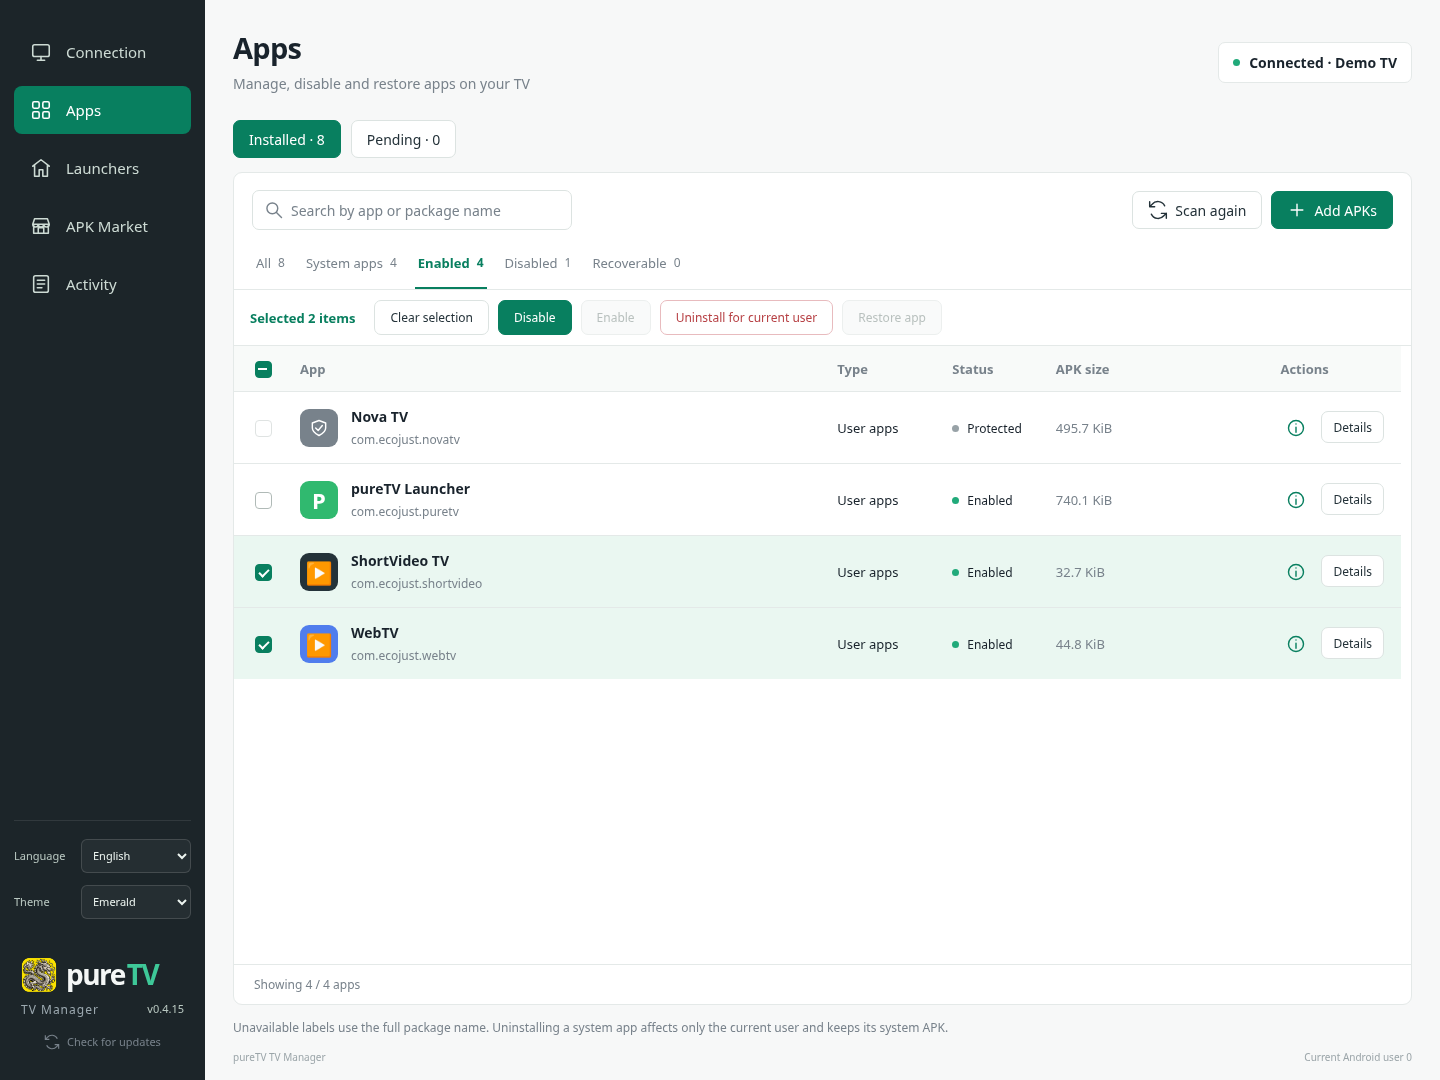
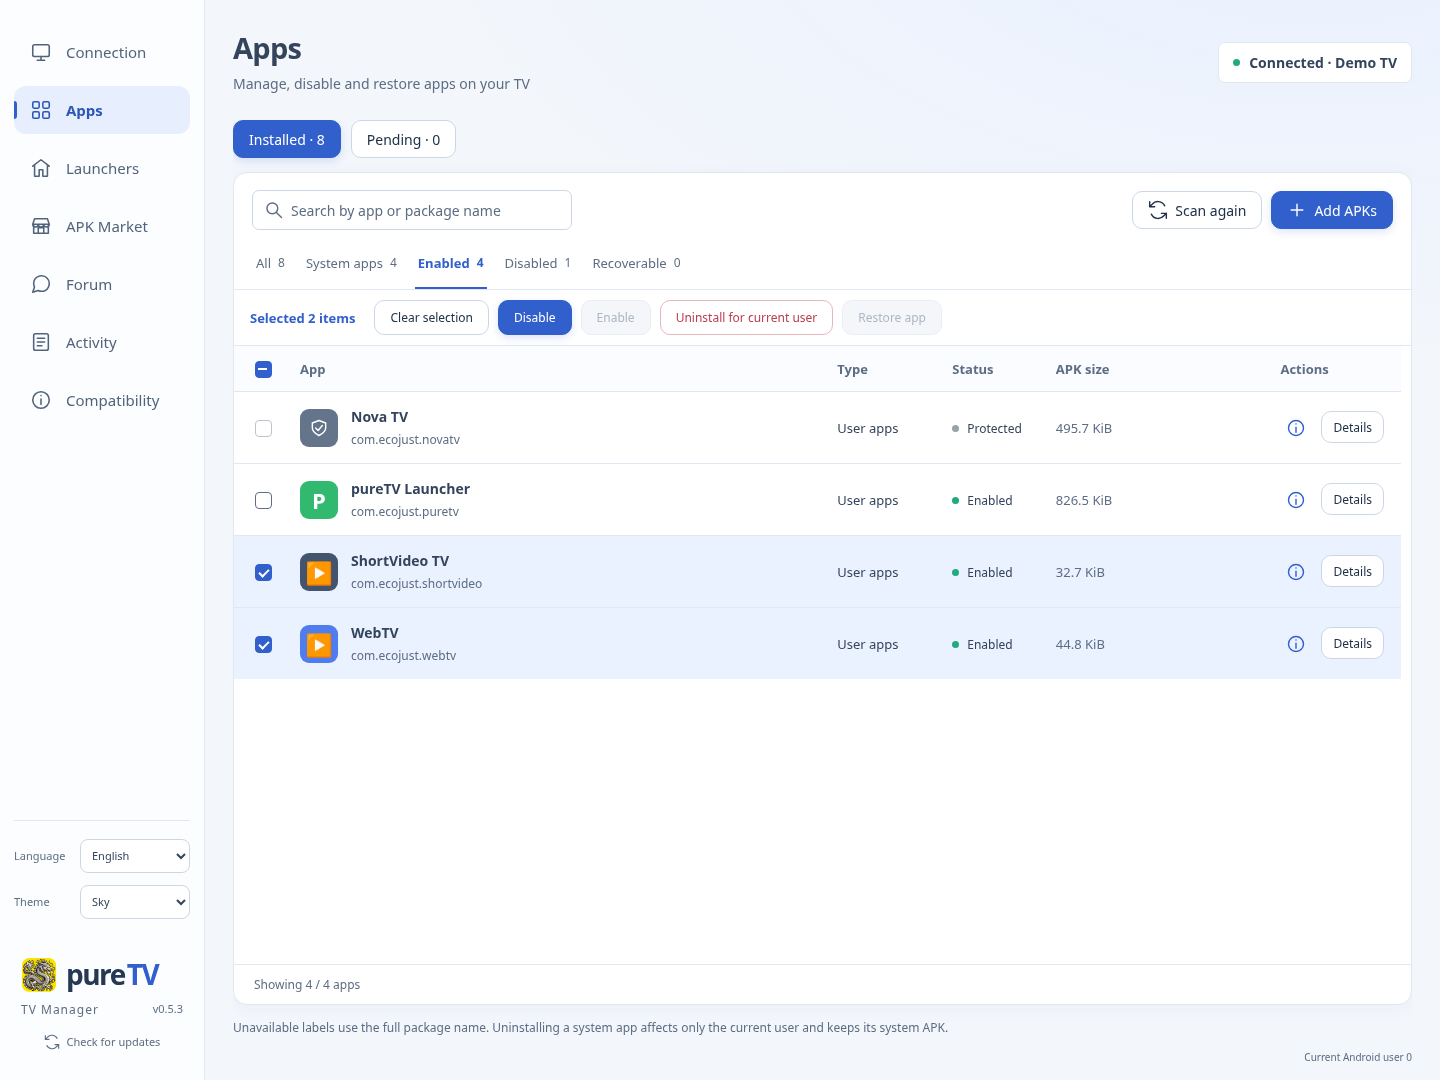
docs: refresh manager README screenshots for bright themes [skip ci]

diff --git a/history/2026-11-06-002.md b/history/2026-11-06-002.md
@@ -1,6 +1,6 @@
 # 2026-11-06 · 明亮主题与移除兼容性列表
 
-- 状态：completed
+- 状态：in_progress
 - 分支：`feat/bright-themes`
 - 起点：`e9cb8daf`（上轮Info列表交付后的主分支）
 - 关联记录：[Info兼容列表](2026-11-06-001.md)、[0.5.3发布](2026-11-05-006.md)
@@ -14,6 +14,10 @@
 ### U2
 
 > info改个名字，叫类似兼容性方案之类的
+
+### U3
+
+> readme中该换的图要更新了
 
 ## 行动记录
 
@@ -45,8 +49,21 @@
 - 推送触发 [Desktop build 42228326316](https://github.com/ecojust/pureTV/actions/runs/42228326316)，记录时为 queued，尚未取得四平台 CI 结论。前述本地构建／UI／视觉检查已通过。
 - 本次完成源码交付，未修改版本、创建发布标签或上传安装包；公开版本仍为 desktop-v0.5.3。
 
+### A5 · README 截图更新
+
+- 用户要求更新 README 中应替换的截图。已定位中文首页仍引用旧版 `manager-0415.png`，英文首页引用的 `manager-en.png` 也需重新捕获。已有英文截图脚本将扩展为中英两套，直接渲染当前生产界面及明确标注的模拟设备数据。
+- 上轮四平台 CI 42228326316 当前仍在运行；本次仅更新截图、截图脚本与文档，不重跑产品完整回归，不修改游戏／电视启动器画面或历史发布验证资料。
+
+### A6 · README 截图捕获与检查
+
+- 已更新中英文首页两张主图：`docs/previews/manager-zh.png`、`manager-en.png`，采用当前「晴空」主题并显示「兼容性方案／Compatibility」入口；图片 alt 明确标注当前源码和模拟设备。`capture-readme.mjs` 改为一次生成两种语言，显式选择主题并检查版本、页面名称、溢出、浏览器错误与英文可见文本。
+- `resource/README-development.md` 的 Home、Apps 与多选示例改为 `layout-v5-home.png`、`layout-v5-apps.png`、`layout-multiselect.png`，同步现有测试的截图输出名，旧版本图片保持原样。顺带修正 desktop README 的旧主题名称。
+- 本轮复用上阶段已通过构建的 dist，产品源码没有变化。主图捕获成功；编辑器的两个既有捕获用例通过，分别验证多选排布和协议示例与预览配置一致。首次主图命令从根目录使用了错误相对路径，未启动捕获；按脚本约定从 desktop 执行后成功，初次日志保留。
+- 主 agent 已逐张目视检查五张新图。四份相关 README 共 **73 个本地图片引用**均存在；主图尺寸 1440×1080，编辑器图 1440×1000，PNG 结构检查通过。两份截图脚本语法与 `git diff --check` 通过。临时日志位于 `/workspace/scratch/theme-refresh-2026-11-06/readme-capture*.log` 和 `readme-layouts.log`，当前脚本及实际 PNG 随仓库保存。
+- 仓库实际只有简中和英文首页，没有繁体 README；资源目录里的电视应用原生图片、已归档主题检查与历史发布证据无需本轮更新。没有操作实体电视或发布新安装包。
+
 ## 当前交接
 
 - 已完成：三主题更新、列表移除、页面改名、最终构建、171 项完整及 5 项补充 UI 回归、视觉与对比度检查。
-- 下一步：如需安装包发布，使用已验证源码并先核对上述 CI 结果。
+- 已完成 U3：5 张当前管理器截图、文档引用和生成路径同步；下一步提交推送。
 - 发布状态：源码已推送；本次未创建新安装包，公开 0.5.3 保持不变。

diff --git a/history/INDEX.md b/history/INDEX.md
@@ -6,7 +6,7 @@
 
 | 记录 | 状态 | 用户目标 | 当前结果与下一步 |
 | --- | --- | --- | --- |
-| [2026-11-06-002](2026-11-06-002.md) | completed | 移除兼容列表、优化主题并改名兼容性方案 | 9f388498已推送master；晴空／海盐／石墨、页面改名完成；构建、171项完整与5项补充UI、视觉对比度通过，CI42228326316待结果；未发布新安装包。 |
+| [2026-11-06-002](2026-11-06-002.md) | in_progress | 移除兼容列表、优化主题并改名兼容性方案 | 9f388498已推送master；晴空／海盐／石墨、页面改名完成；构建、171项完整与5项补充UI、视觉对比度通过，CI42228326316运行中；5张README管理器截图与生成器已更新并验证，待推送，未发布新安装包。 |
 | [2026-11-06-001](2026-11-06-001.md) | completed | 移除Info无需电视ADB分组，增加海信Android9兼容性列表 | 303e9076已推送master；构建／746条文案／3项相关UI通过，完整CI42204511147通过；海信当时标注用户反馈兼容，列表后按002请求移除；未发布新安装包。 |
 | [2026-11-05-006](2026-11-05-006.md) | completed | 发布包含旧电视兼容修复的新版本 | desktop-v0.5.3已公开且latest；源码4d74296a，流程42133344048全成功，五份公开产物大小/SHA256一致，永久证据已归档；Gitee仍0.5.1，需GitHub下载。 |
 | [2026-11-05-005](2026-11-05-005.md) | blocked | 常见品牌和 Android 版本的兼容性 checklist 与全面测试 | 小米电视2（系统待确认）、小米4/Android6均为P0；此前4.4反馈暂不合并。30项清单与修复完成，ae60c0af四平台CI42081531579及E3三组通过（旧root镜像LIMITED），110核心／28采集／33运行器；0.5.3已收录并发布，实体电视E4仍待验。 |

diff --git a/resource/README-development.md b/resource/README-development.md
@@ -186,9 +186,9 @@ adb -s 192.168.1.50:5555 shell content call --uri content://org.example.launcher
 
 | 配置与画面 | 管理器示例 |
 | --- | --- |
-| 完整示例的 Home：上方固定系统组件，下方可框选的用户应用块 | ![Home 用户与系统组件](../docs/previews/layout-v5-home-036.png) |
-| 完整示例的 Apps：独立背景与用户应用布局 | ![Apps 页面](../docs/previews/layout-v5-apps-036.png) |
-| 框选用户块后，上对齐、左右分散、水平／垂直／网格平铺 | ![多选排布](../docs/previews/layout-v4-multiselect-035.png) |
+| 完整示例的 Home：上方固定系统组件，下方可框选的用户应用块 | ![Home 用户与系统组件](../docs/previews/layout-v5-home.png) |
+| 完整示例的 Apps：独立背景与用户应用布局 | ![Apps 页面](../docs/previews/layout-v5-apps.png) |
+| 框选用户块后，上对齐、左右分散、水平／垂直／网格平铺 | ![多选排布](../docs/previews/layout-multiselect.png) |
 
 顶部紧凑工具栏只保留一个「添加应用块」按钮，新增后自动选中，可在右侧改 action；屏幕基准仅显示，不能编辑。JSON 查看器只显示文本，不写入电视。右侧显示组件名称/id、类型，接着为「显示组件」switch 开关，再是文案、坐标尺寸、SVG、action 与独立颜色。Ctrl/Command 点击可切换多选，Shift 点击追加；空白处拖动框选，只选择用户块。系统组件固定，批量操作不会改写它们。所有修改都是本地草稿，确认「应用到电视」后才保存并读回核对。
 

diff --git a/desktop/README.md b/desktop/README.md
@@ -147,7 +147,7 @@ APK市场、论坛和操作记录不显示常驻 ADB 提示、设备操作忙碌
 
 ## 语言、主题与资源
 
-左下角支持简体中文、繁體中文、English，以及青绿、深蓝、石墨三套主题；窗口和 Agent 的偏好修改实时同步并保存。
+左下角支持简体中文、繁體中文、English，以及晴空、海盐、石墨三套主题；窗口和 Agent 的偏好修改实时同步并保存。
 
 根目录 [resource](../resource/README.md) 提供带实际 APK、作者、许可、源码和校验记录的资源。完整 layout.json 规范与文件／画面对照见[资源开发文档](../resource/README-development.md#layoutjson-协议规范与画面对照)。
 

diff --git a/README.en.md b/README.en.md
@@ -15,7 +15,7 @@ pureTV is a desktop system manager for Android TV and Google TV. Connect to your
 [![Android TV](https://img.shields.io/badge/Android%20TV-ADB-3ddc84?style=flat-square&logo=android&logoColor=white)](#connection-and-app-management)
 [![License](https://img.shields.io/badge/license-MIT-f4c430?style=flat-square)](LICENSE)
 
-![Manager preview using simulated device data](docs/previews/manager-en.png)
+![Current source preview in the Sky theme using simulated device data](docs/previews/manager-en.png)
 
 ## Connection and app management
 
